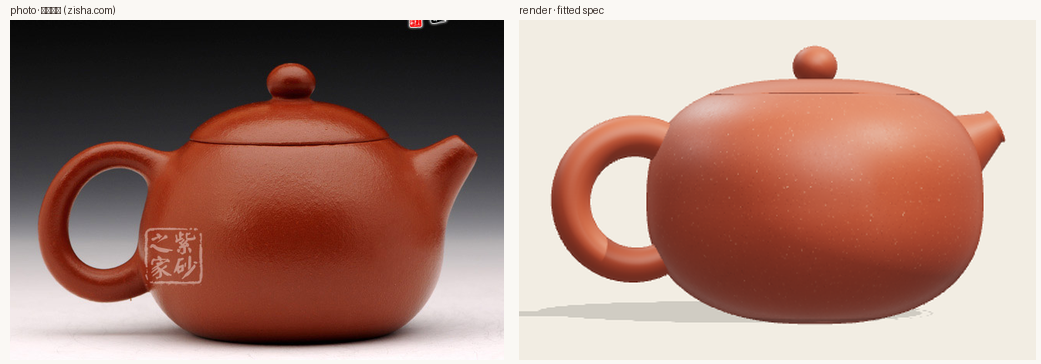
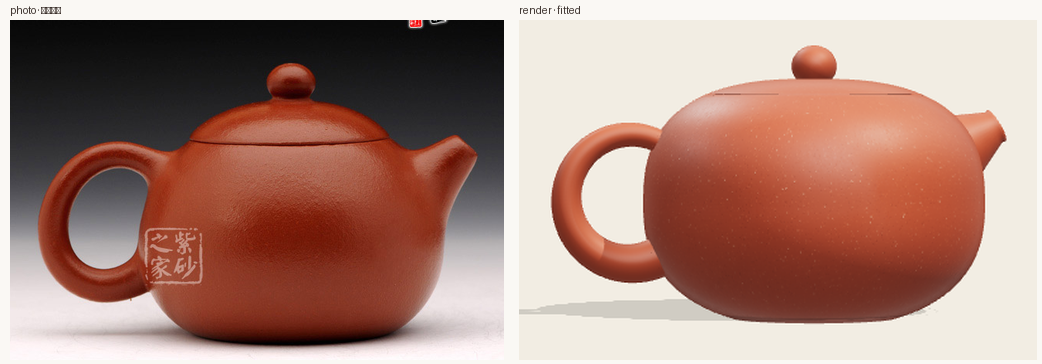
xishi: a real flat base, and the inverted taper the name actually means
Two features were wrong, both in the vocabulary rather than the numbers.

- 一捺底: the lower superellipse ran almost to the pole, so the "flat" was a few
  millimetres wide and the pot was a ball resting on a point. Added footR: the
  curve is cut at a real foot radius with the pressed base inside it. The
  photograph shows a straight contact across about half the body width.
- 倒耳把: the strap tapered thick-at-top, thin-at-bottom, which is an ordinary
  ear. 倒 means inverted -- in the photograph it is thin where it leaves the
  shoulder and thickest at the lower root. The taper now runs that way.

check-canon gains a matching rule (foot/body >= 0.35). Body refitted around the
new base; silhouette IoU 0.88. The flat base costs about 0.01 IoU against a
photograph whose bottom rows are ambiguous between contact and shadow -- kept,
because the pot demonstrably has one, and a feature the object really has is not
something a pixel score gets to veto.

Claude-Session: https://claude.ai/code/session_01Au3NkrP4Zh9Vb2uEzJxxmj

diff --git a/src/components/bodies.js b/src/components/bodies.js
@@ -150,6 +150,7 @@ export const BODIES = {
       lowerFull: { label: '下丰满', min: 2.0, max: 4.0, step: 0.02, default: 2.45 },
       upperFull: { label: '上丰满', min: 2.0, max: 4.0, step: 0.02, default: 2.15 },
       mouthR: { label: '口径', min: 0.15, max: 0.9, step: 0.005, default: 0.42 },
+      footR: { label: '底径', min: 0.15, max: 0.9, step: 0.005, default: 0.45 },
       basePress: { label: '捺底', min: 0, max: 0.12, step: 0.002, default: 0.03 },
     },
     profile(p) {
@@ -160,11 +161,17 @@ export const BODIES = {
         return p.maxR * Math.pow(Math.max(0, 1 - Math.pow(u, n)), 1 / n)
       }
       const N = 46
+      // the lower curve is cut at the foot radius, not run to the pole: a 西施
+      // stands on a real flat base (一捺底), it is not a ball resting on a point
+      const footR = Math.min(p.footR ?? 0.45, p.maxR * 0.95)
+      const uFoot = Math.pow(
+        Math.max(0, 1 - Math.pow(footR / p.maxR, p.lowerFull)), 1 / p.lowerFull,
+      )
+      const dyFoot = uFoot * p.lowerAxis
       const lower = []
       for (let i = N; i >= 1; i--) {
-        const dy = (i / N) * p.lowerAxis
-        const r = at(dy, p.lowerAxis, p.lowerFull)
-        if (r > 0.06) lower.push(new THREE.Vector2(r, p.bellyY - dy))
+        const dy = (i / N) * dyFoot
+        lower.push(new THREE.Vector2(at(dy, p.lowerAxis, p.lowerFull), p.bellyY - dy))
       }
       const upper = []
       for (let i = 1; i <= N; i++) {
@@ -174,16 +181,16 @@ export const BODIES = {
         else break
       }
       // cut both ends flat: a foot to stand on, a mouth for the lid
-      const foot = lower.length ? lower[0] : new THREE.Vector2(p.maxR * 0.4, 0)
+      const foot = new THREE.Vector2(footR, p.bellyY - dyFoot)
       // 一捺底: the base is pressed in, so the pot rests on a ring at the foot
       // radius and the centre of the underside sits slightly higher
       const press = p.basePress ?? 0
       const rim = upper.length ? upper[upper.length - 1] : new THREE.Vector2(p.mouthR, p.bellyY + p.upperAxis * 0.8)
       const outer = [
         new THREE.Vector2(0.03, foot.y + press),
-        new THREE.Vector2(foot.x * 0.45, foot.y + press * 0.82),
-        new THREE.Vector2(foot.x * 0.78, foot.y + press * 0.42),
-        new THREE.Vector2(foot.x, foot.y),
+        new THREE.Vector2(footR * 0.5, foot.y + press * 0.78),
+        new THREE.Vector2(footR * 0.85, foot.y + press * 0.28),
+        new THREE.Vector2(footR, foot.y),
         ...lower,
         new THREE.Vector2(p.maxR, p.bellyY),
         ...upper,

diff --git a/src/components/handles.js b/src/components/handles.js
@@ -62,7 +62,9 @@ export const HANDLES = {
     // belly. Built on a true circular arc so no straight segment can appear.
     params: {
       tube: { label: '把粗', min: 0.03, max: 0.12, step: 0.002, default: 0.075 },
-      taper: { label: '把梢', min: 0.35, max: 1.0, step: 0.02, default: 0.6 },
+      // 倒 = inverted: unlike an ordinary ear, the strap is *thin* where it
+      // leaves the shoulder and thickest at the lower root
+      taper: { label: '上梢', min: 0.35, max: 1.0, step: 0.02, default: 0.6 },
       outerX: { label: '外缘', min: 0.8, max: 2.0, step: 0.01, default: 1.30 },
       topY: { label: '上接', min: 0.45, max: 1.0, step: 0.01, default: 0.78 },
       botY: { label: '下接', min: 0.08, max: 0.6, step: 0.01, default: 0.30 },
@@ -95,7 +97,7 @@ export const HANDLES = {
         pts.push(new THREE.Vector3(centre.x + radius * Math.cos(a), centre.y + radius * Math.sin(a), 0))
       }
       const curve = new THREE.CatmullRomCurve3(pts, false, 'centripetal')
-      const geo = sweptTube(curve, (t) => p.tube * (1 - (1 - p.taper) * t * t))
+      const geo = sweptTube(curve, (t) => p.tube * (p.taper + (1 - p.taper) * Math.pow(t, 1.4)))
       return new THREE.Mesh(geo, material)
     },
   },
